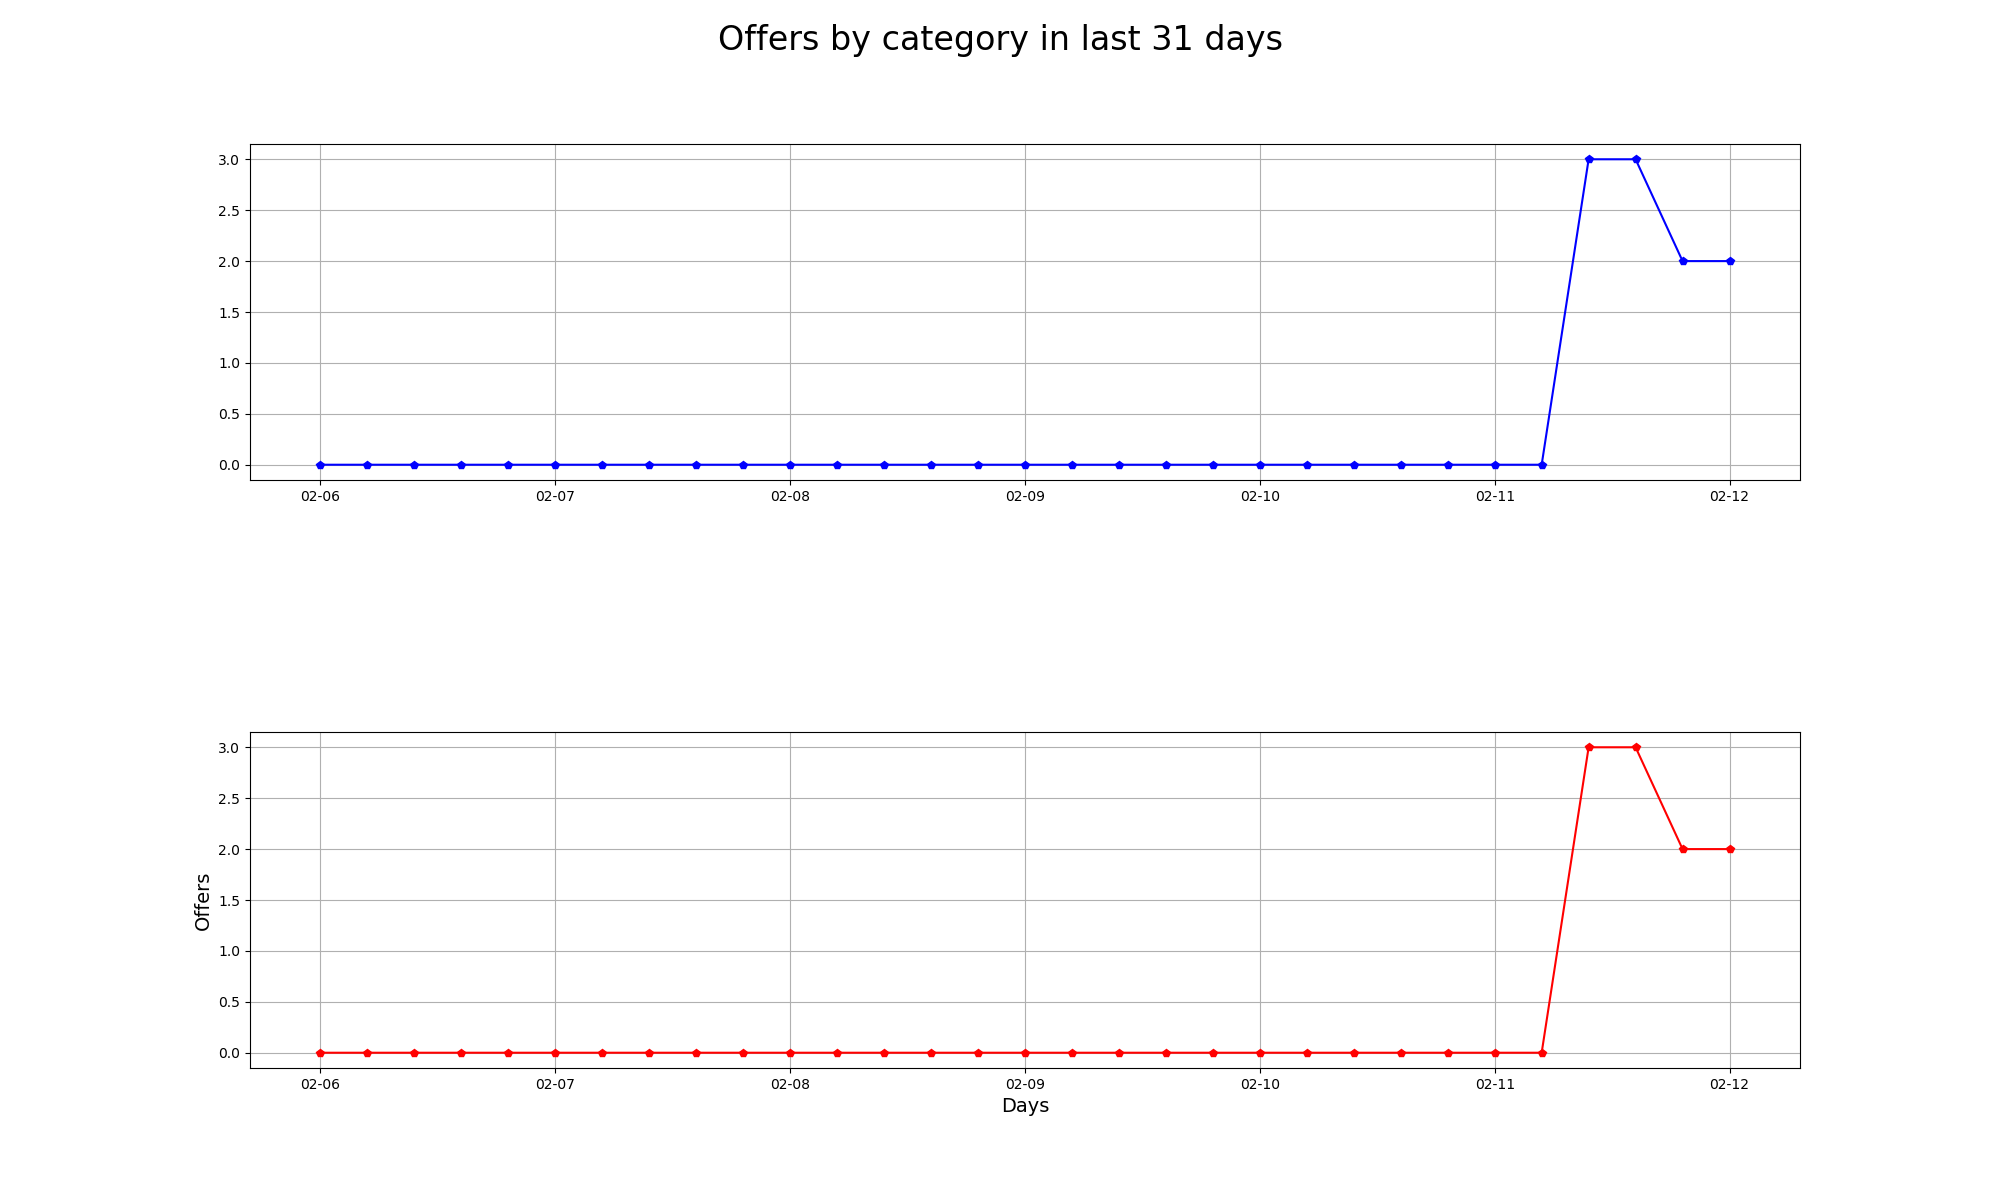
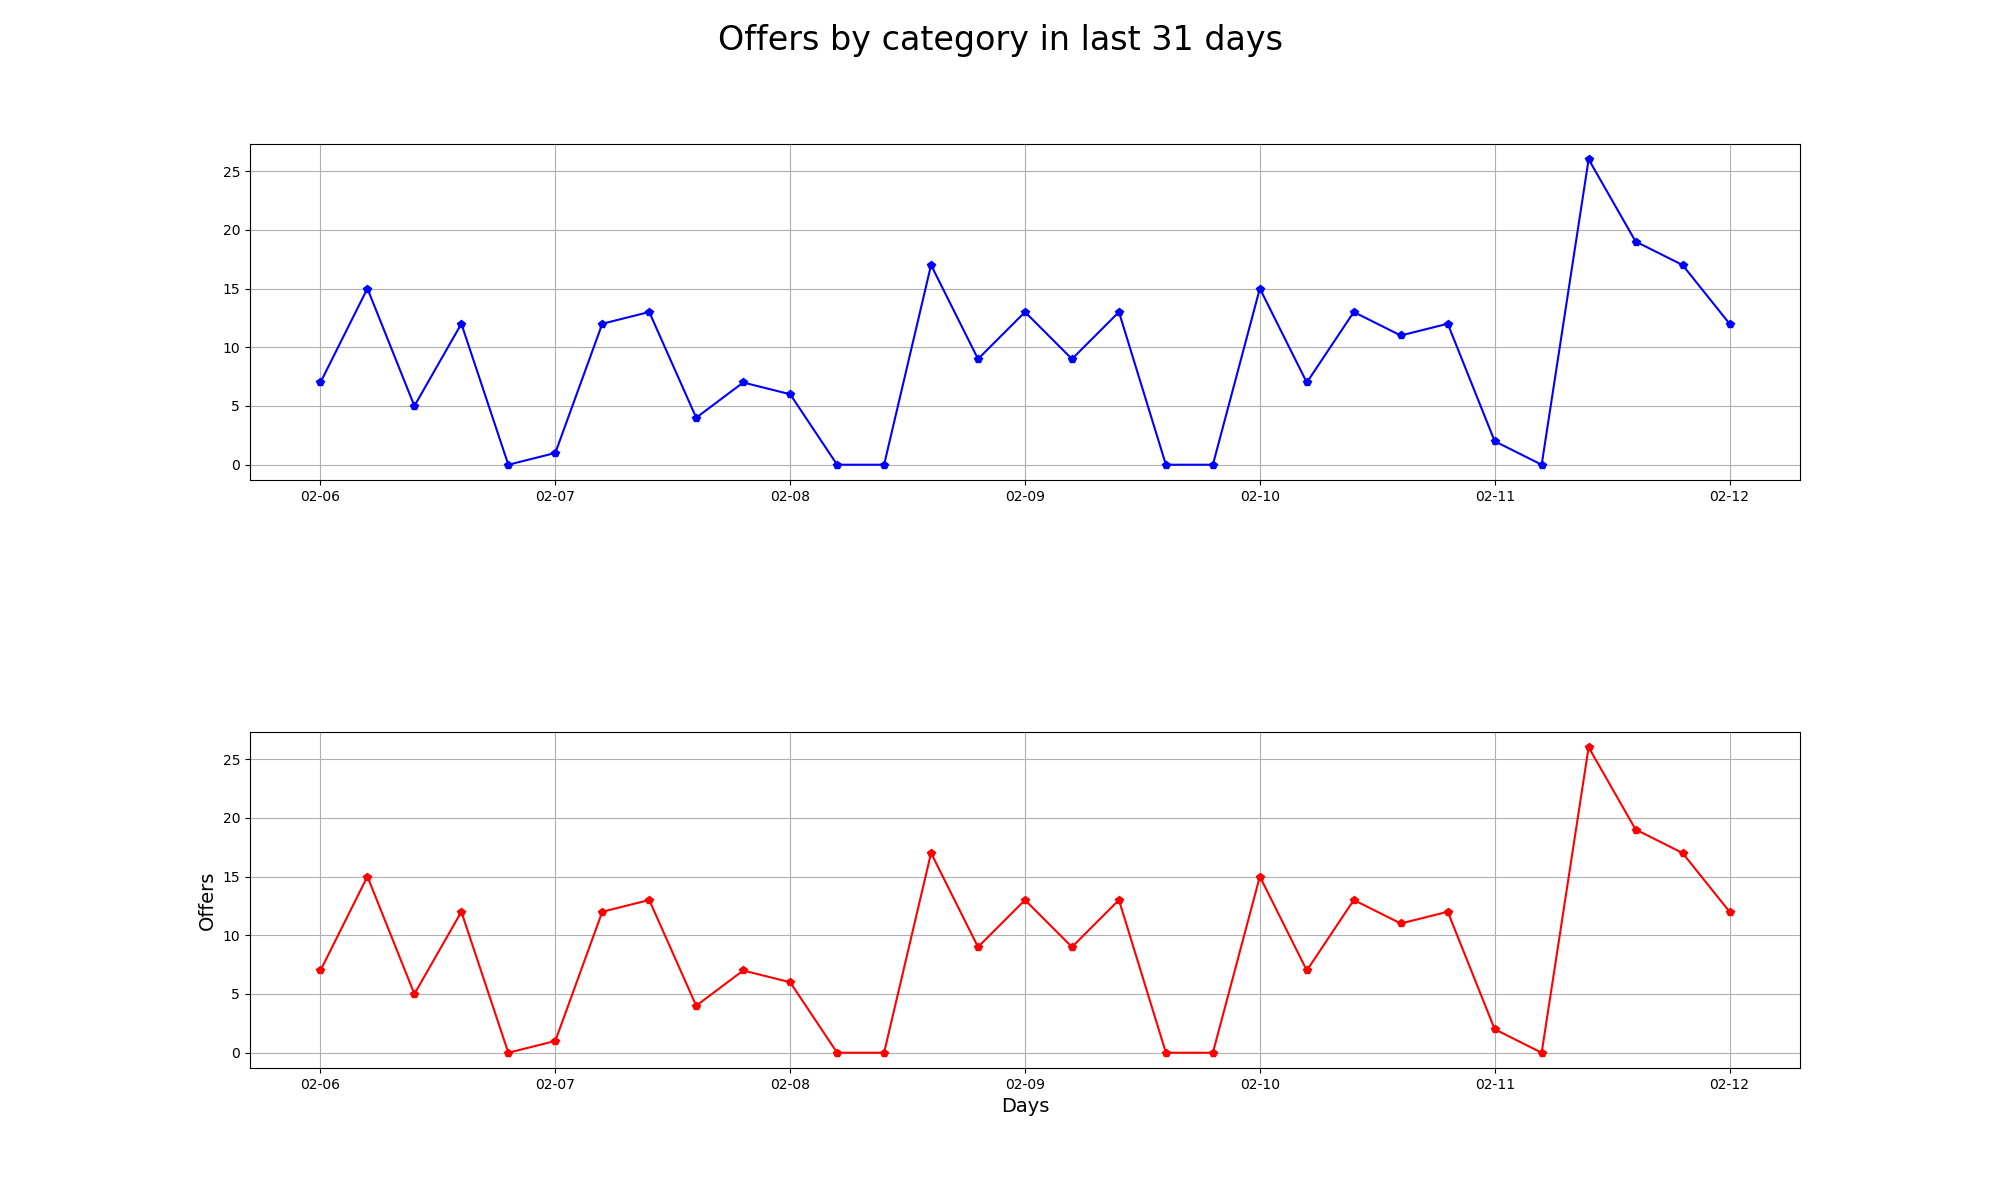
repair downloading data

diff --git a/main.py b/main.py
@@ -4,9 +4,9 @@ from offers import getOffers
 from datetime import datetime, timedelta
 
 print("Pobieranie danych...")
-offers = getOffers(10, 102)
-offers2 = getOffers(10, 328)
-offers3 = getOffers(10, 102)
+offers = getOffers(300, 102)
+offers2 = getOffers(300, 328)
+offers3 = getOffers(300, 102)
 
 #generate data
 xt = [(datetime.today() - timedelta(days=x)).strftime('%m-%d') for x in range(30, -1, -1)]

diff --git a/readme.md b/readme.md
@@ -1,0 +1,1 @@
+##### pageScrapper in Python `v.0.1`
